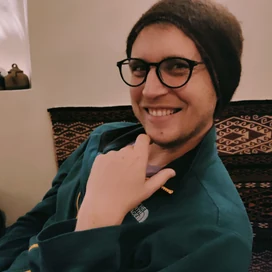
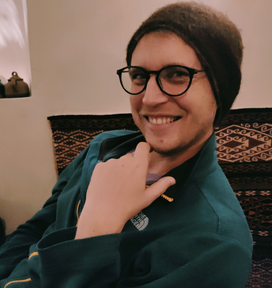
Show the portrait smaller and in black and white
The photo is only 272px wide, so it looked soft when upscaled, and its warm
colors clashed with the page. Goes back to the lossless files for the same reason.

diff --git a/app/pages/index.vue b/app/pages/index.vue
@@ -235,6 +235,9 @@ const techs = useCountUp(totalSkills);
 }
 
 .hero__grid {
+  /* The source photo is only 272px wide, so it stays small to stay sharp. */
+  --hero-portrait-size: 16rem;
+
   display: grid;
   gap: var(--space-8);
   align-items: start;
@@ -242,7 +245,7 @@ const techs = useCountUp(totalSkills);
 
 @media (min-width: 56rem) {
   .hero__grid {
-    grid-template-columns: 1.7fr 1fr;
+    grid-template-columns: minmax(0, 1fr) var(--hero-portrait-size);
     gap: var(--space-10);
   }
 }
@@ -355,6 +358,7 @@ const techs = useCountUp(totalSkills);
 
 /* Portrait framed like an image preview pane. */
 .hero__figure {
+  max-width: var(--hero-portrait-size);
   margin: 0;
   border: 1px solid var(--color-border-strong);
   border-radius: var(--radius-lg);
@@ -367,6 +371,7 @@ const techs = useCountUp(totalSkills);
   height: auto;
   aspect-ratio: 1;
   object-fit: cover;
+  filter: grayscale(1);
 }
 
 .hero__figcaption {
